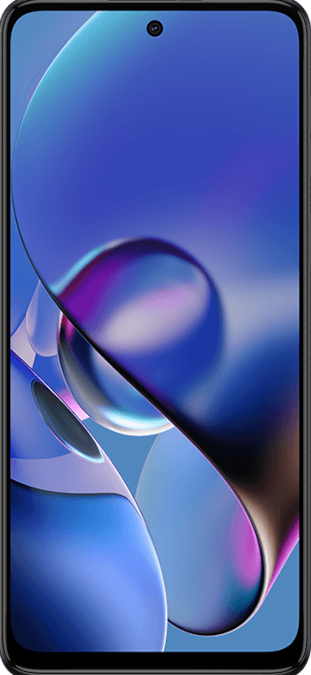
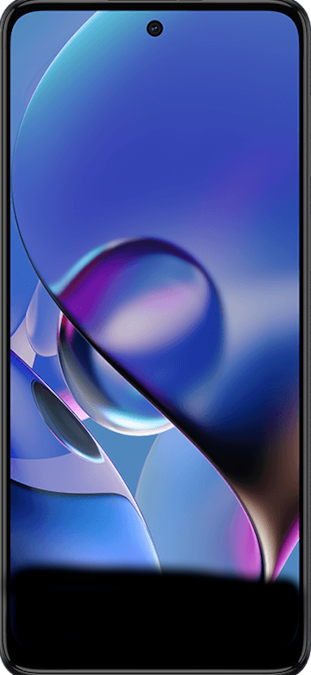
atualizei tela instagram

Changed region(s): [[0.0, 0.8089, 0.9839, 0.9644]]

diff --git a/index.html b/index.html
@@ -18,7 +18,7 @@
             <a href="home.html" target="tela"><img src="imagens/logo-home.jpg" alt="Home"></a><br>
             <a href="youtube.html" target="tela"><img src="imagens/logo-youtube.jpg" alt="Youtube"></a><br>
             <a href="#" target="tela"><img src="imagens/logo-github.jpg" alt="GitHub"></a><br>
-            <a href="#" target="tela"><img src="imagens/logo-instagram.jpg" alt="Instagram"></a><br>
+            <a href="instagram.html" target="tela"><img src="imagens/logo-instagram.jpg" alt="Instagram"></a><br>
             <a href="#" target="tela"><img src="imagens/logo-twitter.jpg" alt="Twiter"></a><br>
             <a href="#" target="tela"><img src="imagens/logo-facebook.jpg" alt="Facebook"></a>
         </section>

diff --git a/instagram.html b/instagram.html
@@ -1,0 +1,14 @@
+<!DOCTYPE html>
+<html lang="pt-br">
+<head>
+    <meta charset="UTF-8">
+    <meta name="viewport" content="width=device-width, initial-scale=1.0">
+    <title>Youtube</title>
+    <link rel="stylesheet" href="estilos/social.css">
+</head>
+<body>
+    <img src="imagens/tela-instagram.jpg" alt="Instagram">
+    <a href="https://www.instagram.com/araujo_edi1/" target="_blank">ACESSE</a>
+    
+</body>
+</html>

diff --git a/estilos/style.css b/estilos/style.css
@@ -29,8 +29,8 @@ section#telefone {
     left: 50%;
     transform: translate(-50%, -50%);
 
-    height: 765px;
-    width: 350px;    
+    height: 675px;
+    width: 311px;    
     background:  url('../imagens/frame-motorola.png') no-repeat;
 }
 
